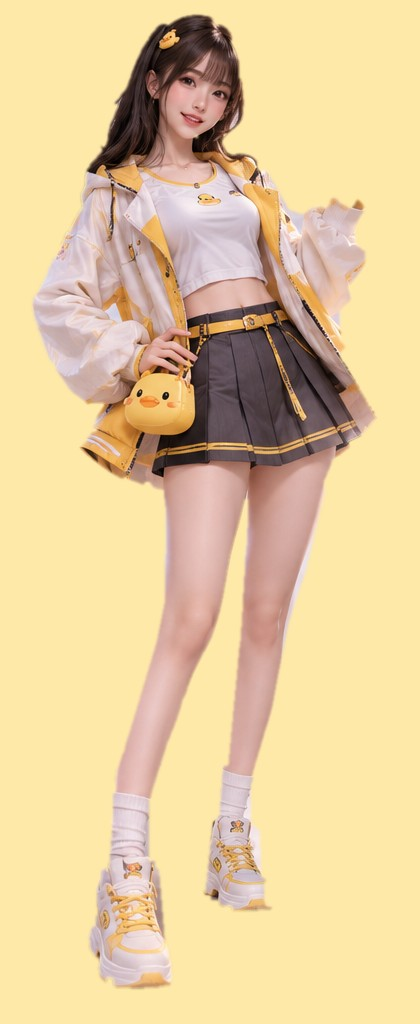
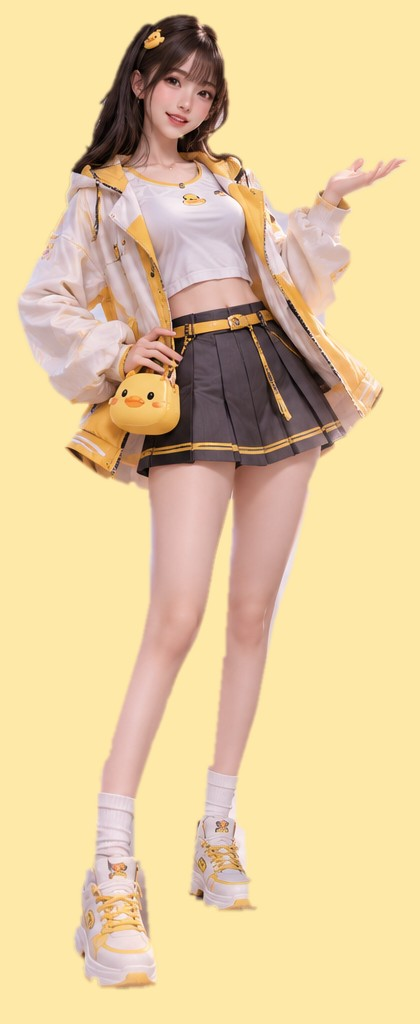
Link card: restore 鸭鸭's raised hand
The cutout had lost her hand against the wall. It is traced back in, and
her card is wider so it stays in frame. og-10.jpg replaces og-9.jpg.

Changed region(s): [[0.031, 0.0, 0.9595, 0.9688]]

diff --git a/site/index.html b/site/index.html
@@ -13,7 +13,7 @@
 <meta property="og:locale:alternate" content="zh_CN">
 <meta property="og:title" content="Heros Agents — seven agents, one honest bench">
 <meta property="og:description" content="Heros, 阿桥, FORGE, Vera, Aoi, Suki and 鸭鸭. They ask before they guess, and a person signs off on what matters.">
-<meta property="og:image" content="https://heros-agent.space/img/og-9.jpg">
+<meta property="og:image" content="https://heros-agent.space/img/og-10.jpg">
 <meta property="og:image:type" content="image/jpeg">
 <meta property="og:image:width" content="1200">
 <meta property="og:image:height" content="630">
@@ -21,7 +21,7 @@
 <meta name="twitter:card" content="summary_large_image">
 <meta name="twitter:title" content="Heros Agents — seven agents, one honest bench">
 <meta name="twitter:description" content="Heros, 阿桥, FORGE, Vera, Aoi, Suki and 鸭鸭. They ask before they guess, and a person signs off on what matters.">
-<meta name="twitter:image" content="https://heros-agent.space/img/og-9.jpg">
+<meta name="twitter:image" content="https://heros-agent.space/img/og-10.jpg">
 <meta name="twitter:image:alt" content="Heros, 阿桥, FORGE, Vera, Aoi, Suki and 鸭鸭, side by side">
 <script type="application/ld+json">{"@context":"https://schema.org","@graph":[{"@type":"WebSite","@id":"https://heros-agent.space/#website","url":"https://heros-agent.space/","name":"Heros Agents","description":"Seven AI agents that do real work and say plainly what they did not: agent evaluation, jobs, engineering design, legal and health, game night, dating and sublets.","inLanguage":["en","zh-CN"]},{"@type":"ItemList","name":"The agents","numberOfItems":7,"itemListElement":[{"@type":"ListItem","position":1,"name":"Heros","url":"https://eval.heros-agent.space/"},{"@type":"ListItem","position":2,"name":"阿桥 Opportunity Bridge","url":"https://jobs.heros-agent.space/"},{"@type":"ListItem","position":3,"name":"FORGE","url":"https://forge.heros-agent.space/"},{"@type":"ListItem","position":4,"name":"Vera · 维拉","url":"https://act.heros-agent.space/"},{"@type":"ListItem","position":5,"name":"Aoi · 葵","url":"https://play.heros-agent.space/"},{"@type":"ListItem","position":6,"name":"Suki · SynAgent","url":"https://match.heros-agent.space/"},{"@type":"ListItem","position":7,"name":"鸭鸭 · 转租鸭 Sublet Duck","url":"https://zhuanzuya.zhiyuwujie.top/"}]}]}</script>
 <meta name="theme-color" content="#0b0b0a">

diff --git a/site/markets/index.html b/site/markets/index.html
@@ -13,7 +13,7 @@
 <meta property="og:locale:alternate" content="zh_CN">
 <meta property="og:title" content="Market watch — Heros Agents">
 <meta property="og:description" content="Upcoming market-moving events with a call on the Dow, Nasdaq and S&amp;P 500: the chance each closes up or down, scored against the close. Not investment advice.">
-<meta property="og:image" content="https://heros-agent.space/img/og-9.jpg">
+<meta property="og:image" content="https://heros-agent.space/img/og-10.jpg">
 <meta property="og:image:type" content="image/jpeg">
 <meta property="og:image:width" content="1200">
 <meta property="og:image:height" content="630">
@@ -21,7 +21,7 @@
 <meta name="twitter:card" content="summary_large_image">
 <meta name="twitter:title" content="Market watch — Heros Agents">
 <meta name="twitter:description" content="Upcoming market-moving events with a call on the Dow, Nasdaq and S&amp;P 500: the chance each closes up or down, scored against the close. Not investment advice.">
-<meta name="twitter:image" content="https://heros-agent.space/img/og-9.jpg">
+<meta name="twitter:image" content="https://heros-agent.space/img/og-10.jpg">
 <meta name="twitter:image:alt" content="Heros, 阿桥, FORGE, Vera, Aoi, Suki and 鸭鸭, side by side">
 <meta name="theme-color" content="#0b0b0a">
 <link rel="icon" href="/img/favicon.svg" type="image/svg+xml">

diff --git a/scripts/make-og.py b/scripts/make-og.py
@@ -4,7 +4,7 @@ Heros, 阿桥, FORGE and Vera come straight from og-base.jpg, trimmed at the sid
 Aoi's figure is scripts/aoi-full.jpg, 鸭鸭's is scripts/yaya-full.jpg (cut from her character board). Suki's is read from her own repository, checked out beside this one. Windows fonts (Georgia,
 Segoe UI, Microsoft YaHei for 阿桥).
 
-    python scripts/make-og.py site/img/og-9.jpg
+    python scripts/make-og.py site/img/og-10.jpg
 
 JPEG, not webp: several link-preview crawlers still drop webp. A new filename on every
 change, because crawlers cache the image by URL far longer than the site's own headers say.
@@ -30,7 +30,8 @@ SUKI = ("Suki", "ai-social-network/docs/assets/suki-full.png", (178, 175, 208))
 
 W, H = 1200, 630
 INK, PAPER, LIME, SUN = (11, 11, 10), (243, 241, 234), (221, 232, 106), (239, 227, 95)
-M, GAP, TOP = 36, 10, 118  # outer margin, gap between cards, card top
+M, GAP, TOP = 36, 8, 118  # outer margin, gap between cards, card top
+YAYA_W = 186  # her arm is raised, so her card is wider: the same scale as the others, hand in frame
 
 
 def font(name, size):
@@ -64,18 +65,18 @@ def main(out):
     d.text((W - M, 76), "heros-agent.space", font=font("segoeui.ttf", 19), fill=(169, 167, 157), anchor="rm")
 
     names = BASE + [SUKI[0], YAYA[0]]
-    cw = (W - 2 * M - GAP * (len(names) - 1)) // len(names)
+    cw = (W - 2 * M - GAP * (len(names) - 1) - YAYA_W) // (len(names) - 1)
     ch = H - TOP - M
     base = Image.open(BASE_IMAGE).convert("RGB")
     label = font("seguisb.ttf", 20)
     label_zh = ImageFont.truetype(os.path.join(FONTS, "msyhbd.ttc"), 19)
     trim = (BASE_CARD - cw) // 2
     for i, name in enumerate(names):
-        x = M + i * (cw + GAP)
+        x = M + i * (cw + GAP)  # 鸭鸭 is last, so the wider card moves no one
         if name == AOI[0]:
             c = figure(AOI[1], AOI[2], cw, ch)
         elif name == YAYA[0]:
-            c = figure(YAYA[1], YAYA[2], cw, ch)
+            c = figure(YAYA[1], YAYA[2], YAYA_W, ch)
         elif name in BASE:
             bx = M + i * (BASE_CARD + BASE_GAP) + trim
             c = base.crop((bx, TOP, bx + cw, TOP + ch))
@@ -84,7 +85,7 @@ def main(out):
             c.paste(c.crop((0, ch - 84, 30, ch - 46)), (0, ch - 46))
         else:
             c = figure(os.path.join(AGENTS, SUKI[1]), SUKI[2], cw, ch)
-        img.paste(c, (x, TOP), rounded((cw, ch), 16))
+        img.paste(c, (x, TOP), rounded((c.width, ch), 16))
         f = label_zh if any(ord(ch_) > 0x2E80 for ch_ in name) else label
         tw = d.textlength(name, font=f)
         d.rounded_rectangle((x + 10, TOP + ch - 44, x + 10 + tw + 26, TOP + ch - 12), 16, fill=SUN)
@@ -95,4 +96,4 @@ def main(out):
 
 
 if __name__ == "__main__":
-    main(sys.argv[1] if len(sys.argv) > 1 else os.path.join(HERE, "..", "site", "img", "og-9.jpg"))
+    main(sys.argv[1] if len(sys.argv) > 1 else os.path.join(HERE, "..", "site", "img", "og-10.jpg"))
